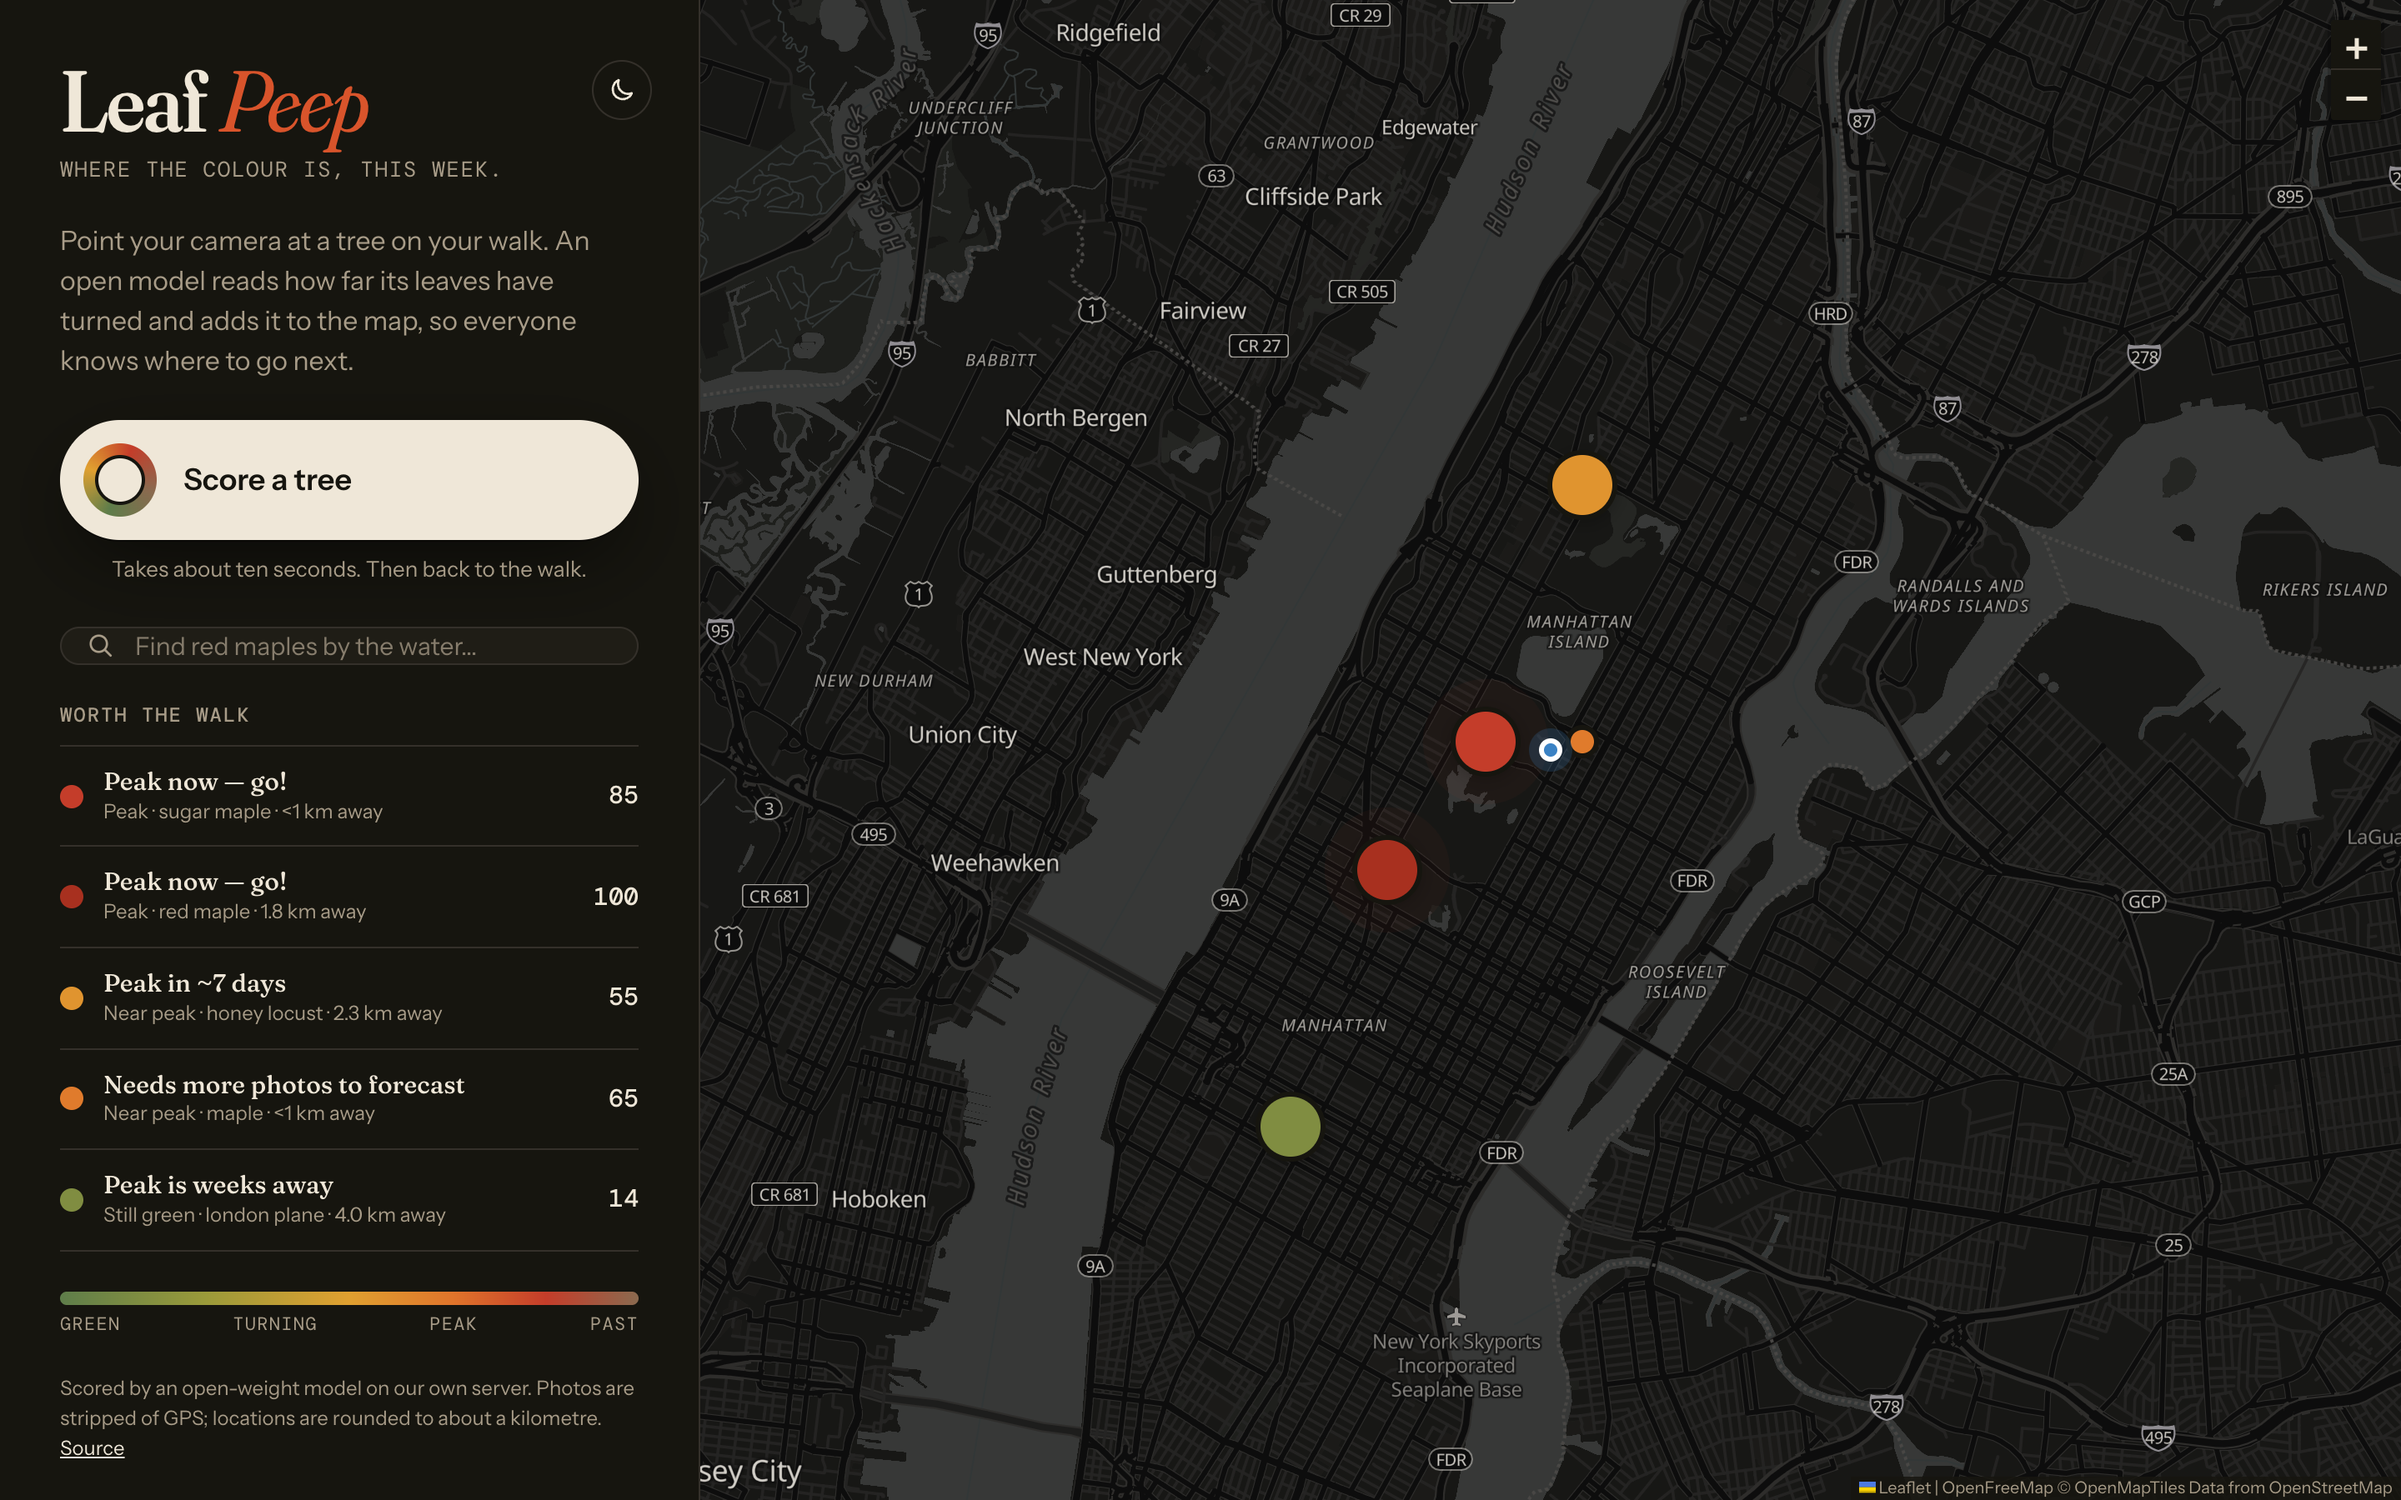
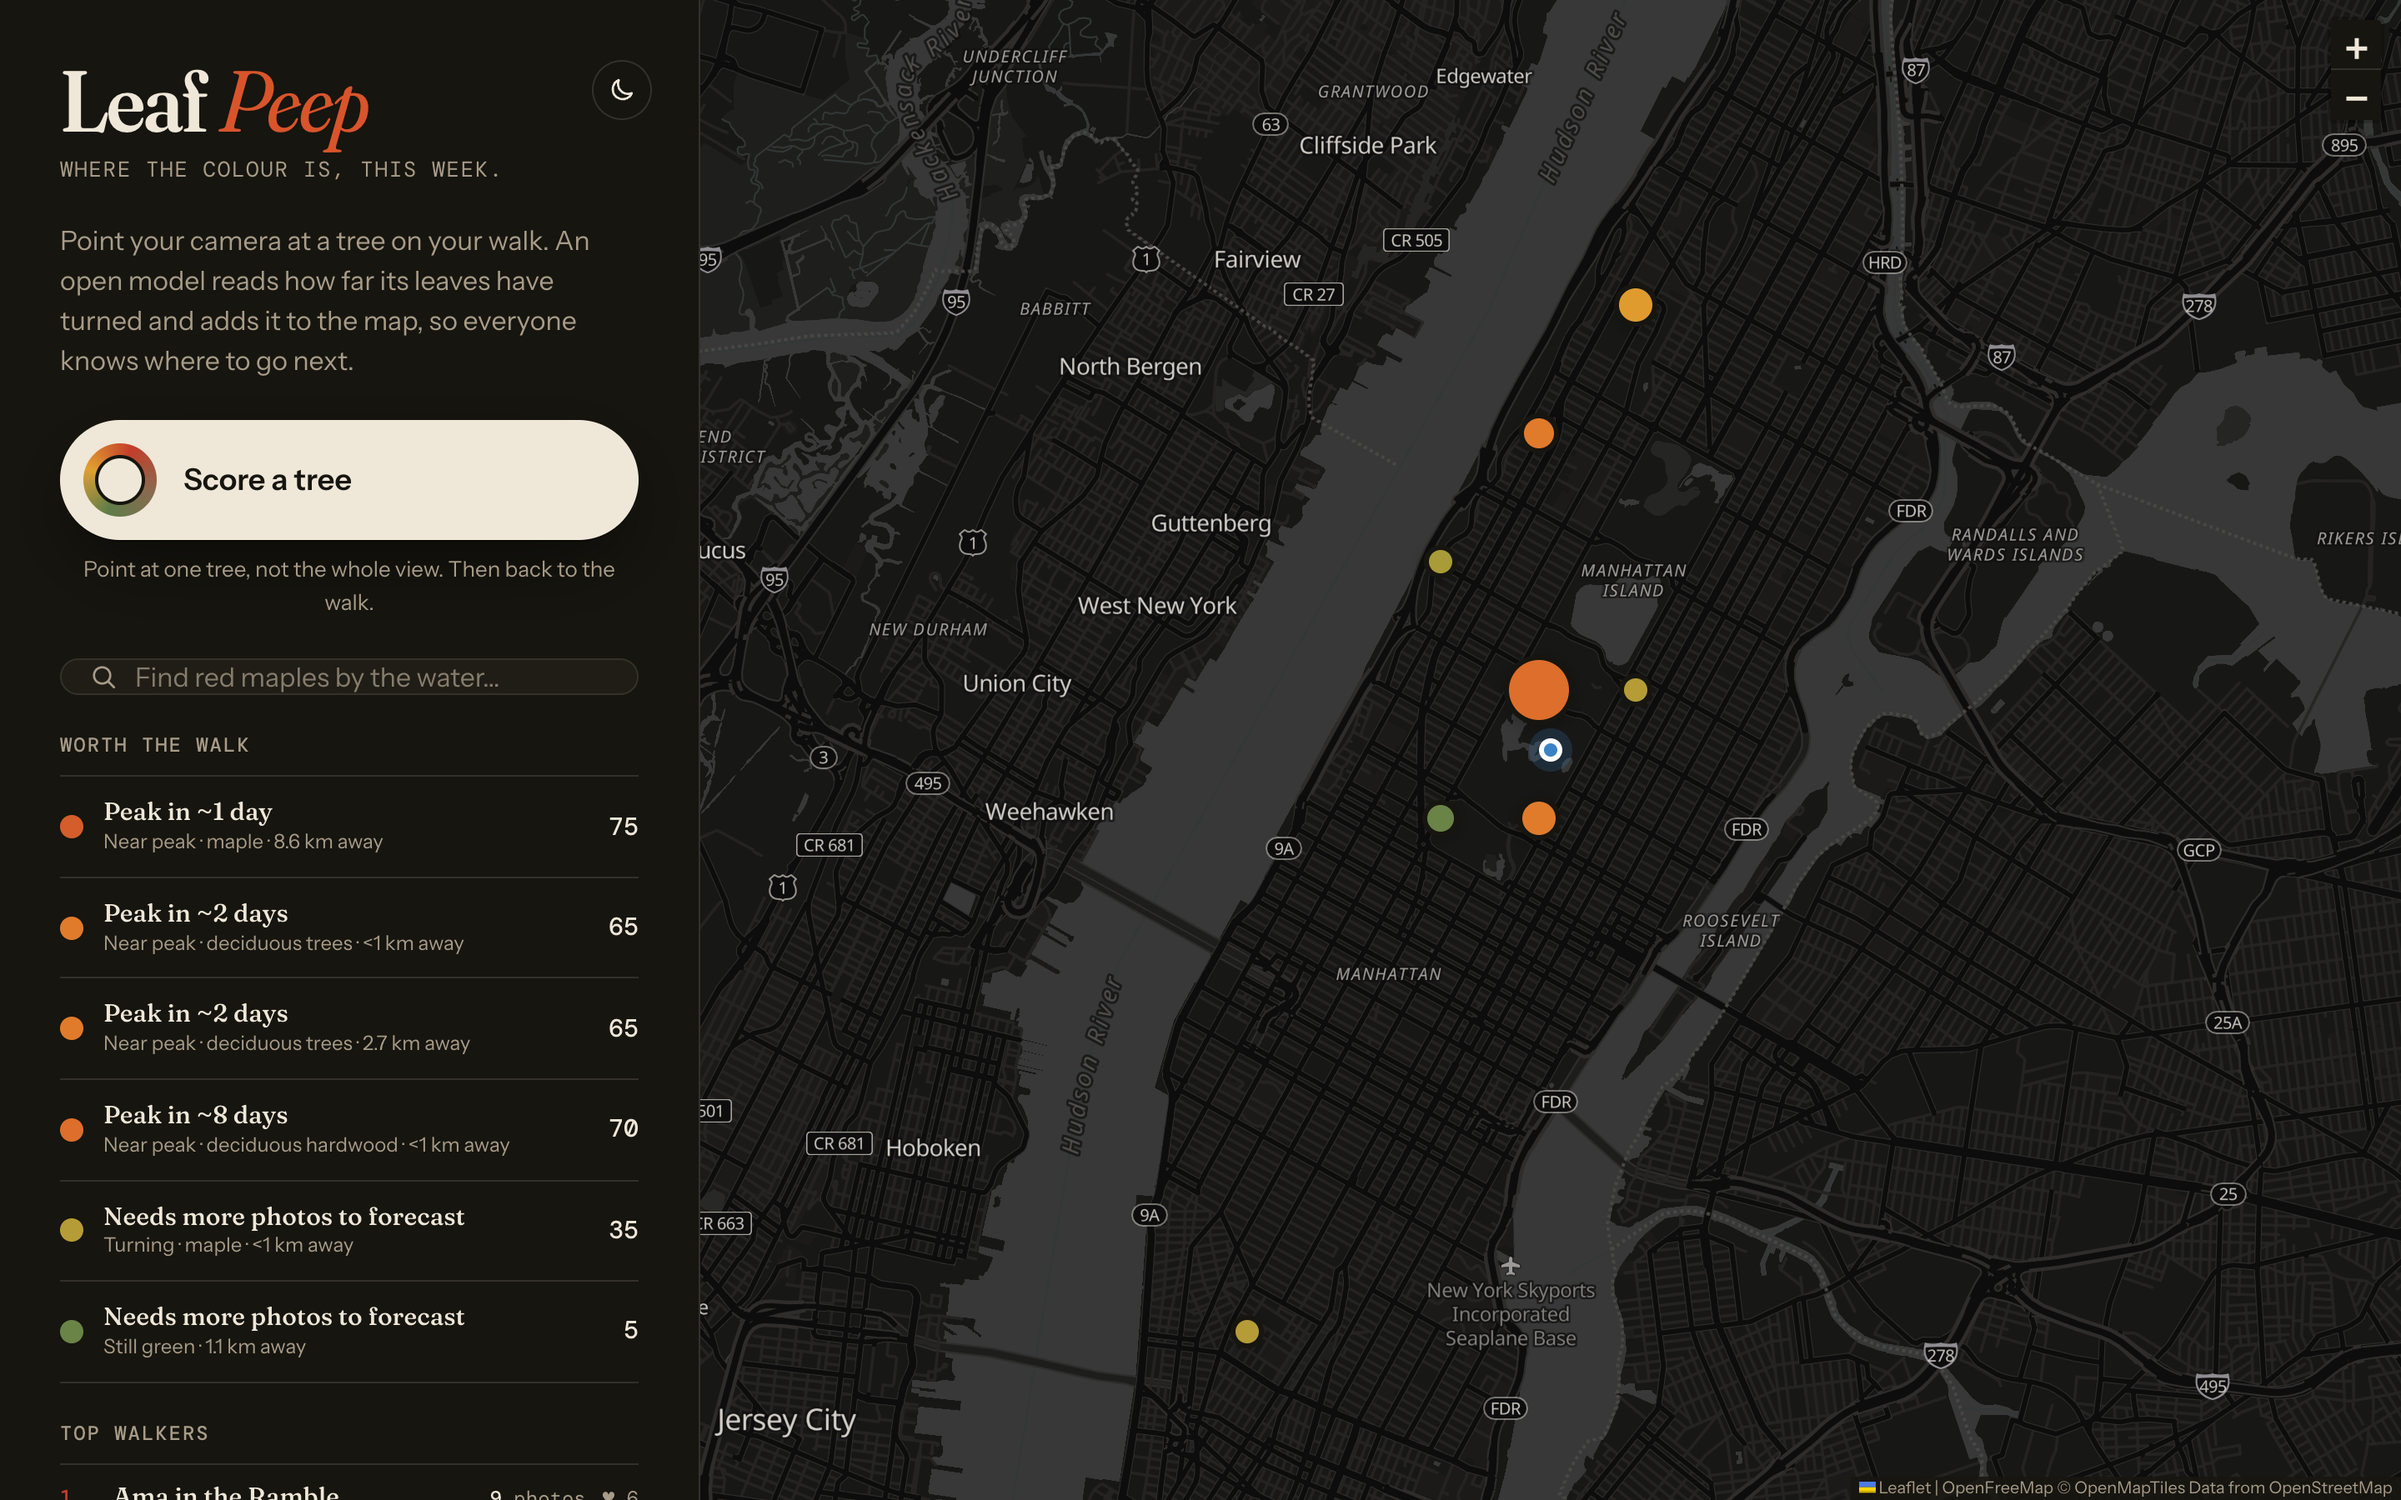
Refresh all screenshots: Home Screen app on iPhone, live site on desktop

diff --git a/docs/index.html b/docs/index.html
@@ -136,19 +136,19 @@
       </div>
       <div class="steps">
         <div class="step">
-          <img src="img/iphone-light-scan.png" alt="The photo being scanned" loading="lazy" width="560" height="1077">
+          <img src="img/iphone-m04-scanning.png" alt="The photo being scanned" loading="lazy" width="560" height="1077">
           <span class="n">01</span>
           <h3>Score a tree</h3>
           <p>Point your phone at a tree. Gemma 4, an open-weight vision model, reads the photo in a couple of seconds.</p>
         </div>
         <div class="step">
-          <img src="img/iphone-light-result.png" alt="A colour score of 65, near peak" loading="lazy" width="560" height="1077">
+          <img src="img/iphone-m05-result.png" alt="A colour score of 65, near peak" loading="lazy" width="560" height="1077">
           <span class="n">02</span>
           <h3>Read the leaves</h3>
           <p>A 0–100 colour score and a stage (green → turning → peak → past), the colours it sees, and a guess at the tree.</p>
         </div>
         <div class="step">
-          <img src="img/iphone-light-popup.png" alt="The new spot on the map" loading="lazy" width="560" height="1077">
+          <img src="img/iphone-m07-liked.png" alt="The new spot on the map" loading="lazy" width="560" height="1077">
           <span class="n">03</span>
           <h3>Share the colour</h3>
           <p>The spot lands on the map for everyone. A daily history per spot turns into a forecast: “peak in about a week”.</p>
@@ -186,7 +186,7 @@
   <section>
     <div class="wrap themes">
       <img class="shot" src="img/desktop-dark-2-spot.jpg" alt="Leaf Peep on desktop in dark mode" loading="lazy" width="1600" height="1000">
-      <img class="phone" src="img/iphone-dark-result.png" alt="A tree scored 95, peak, in dark mode" loading="lazy" width="560" height="1077">
+      <img class="phone" src="img/iphone-d08-leaders.png" alt="A tree scored 95, peak, in dark mode" loading="lazy" width="560" height="1077">
     </div>
   </section>
 

diff --git a/README.md b/README.md
@@ -8,10 +8,10 @@
 
 ## What it does
 
-| Score a tree | Hybrid search | Light and dark |
-|---|---|---|
-| ![](docs/img/iphone-light-result.png) | ![](docs/img/iphone-light-search.png) | ![](docs/img/iphone-dark-popup.png) |
-| Gemma 4 returns a 0–100 colour score, a stage (green → turning → near peak → peak → past), the colours it sees and a tree guess, in a couple of seconds. | “Red maples by the water” finds the lakeside sugar maples even though no one typed “water”: pgvector for meaning plus Postgres full-text for words. | Follows the system theme, with a manual toggle. Mobile gets a bottom sheet; wide screens get a side panel. |
+| Score a tree | Likes and leaderboard | Hybrid search | Dark mode |
+|---|---|---|---|
+| ![](docs/img/iphone-m05-result.png) | ![](docs/img/iphone-m08-leaders.png) | ![](docs/img/iphone-m09-search.png) | ![](docs/img/iphone-d06-popup.png) |
+| Camera first, any name on your first photo (no account). Gemma 4 returns a 0–100 colour score, a stage (green → turning → near peak → peak → past), the colours it sees and a tree guess, in a couple of seconds. | Like other walkers' trees; the board ranks walkers by photos, then likes. | “Red maples by the water” finds the lakeside sugar maples even though no one typed “water”: pgvector for meaning plus Postgres full-text for words. | Follows the system theme, with a manual toggle. Mobile gets a draggable bottom sheet; wide screens a side panel. Installable to the Home Screen. |
 
 ![Leaf Peep on desktop](docs/img/desktop-light-2-spot.jpg)
 
